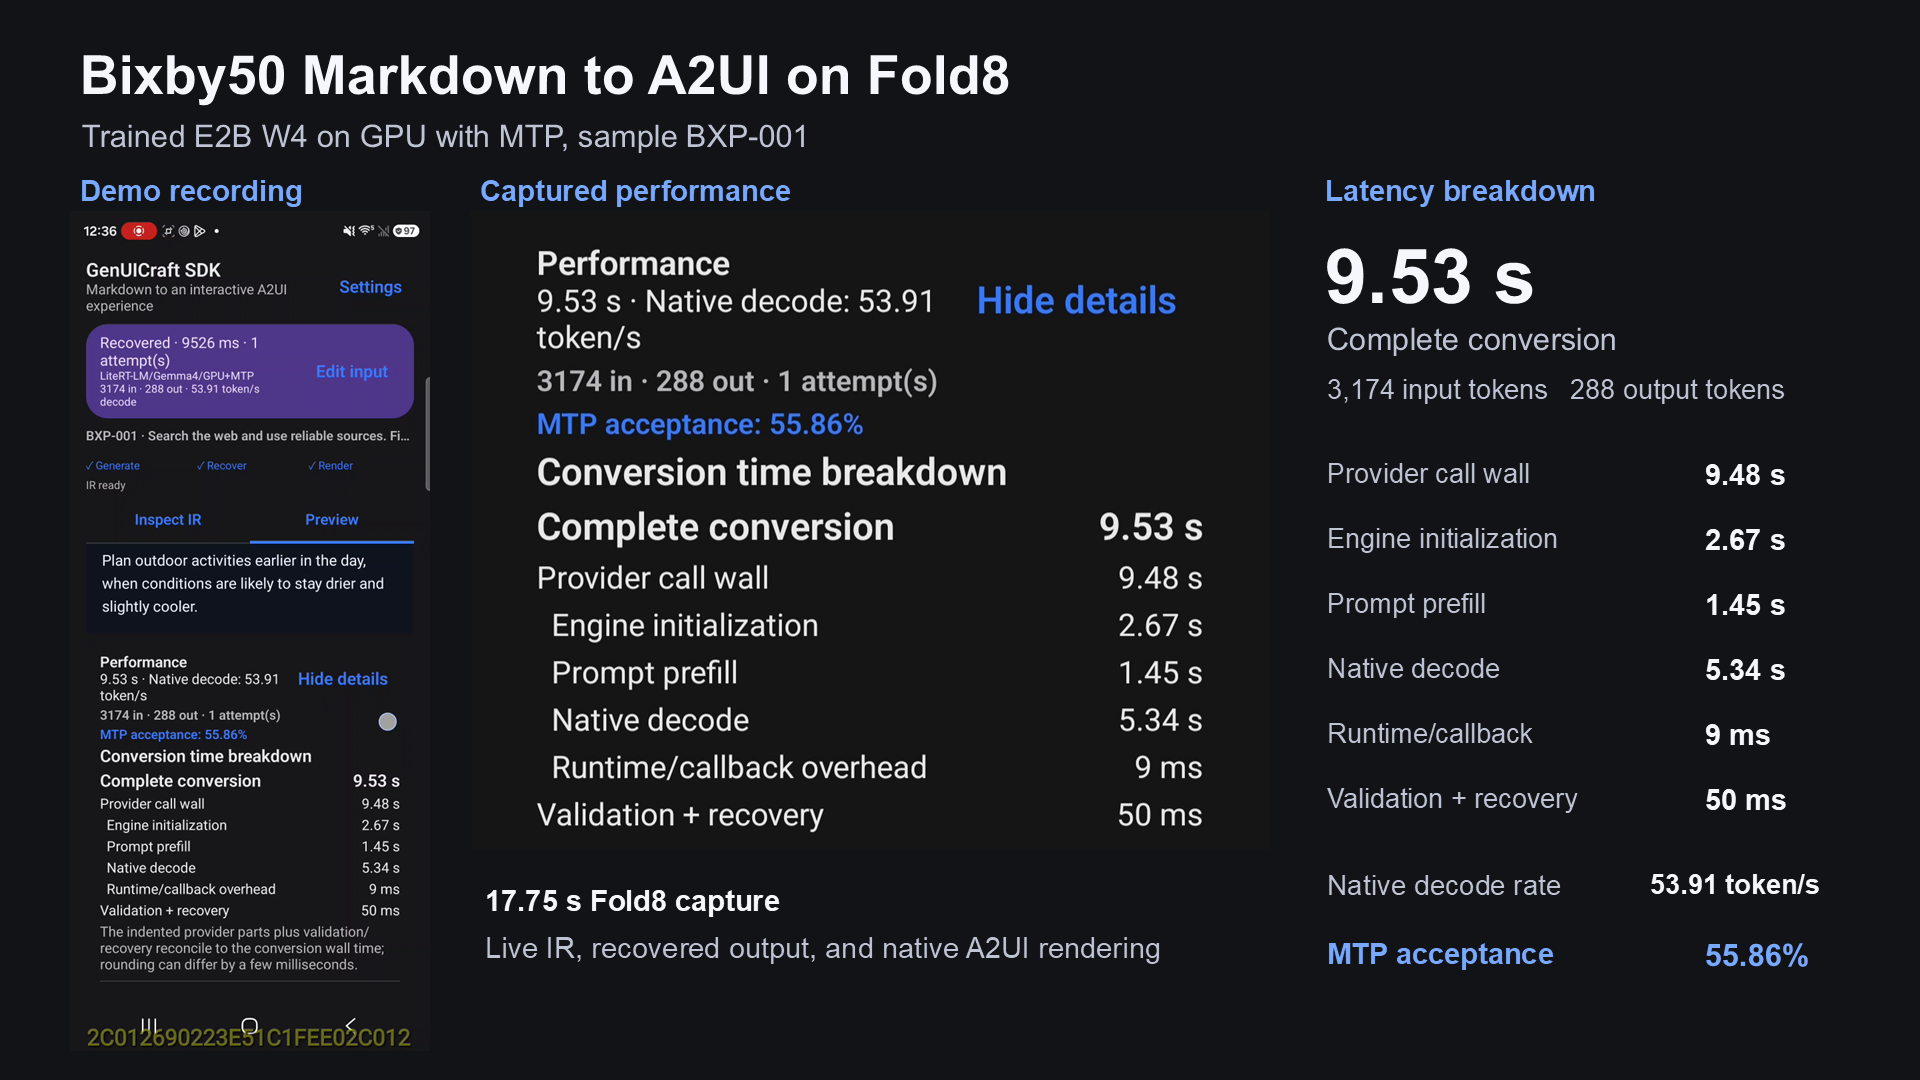
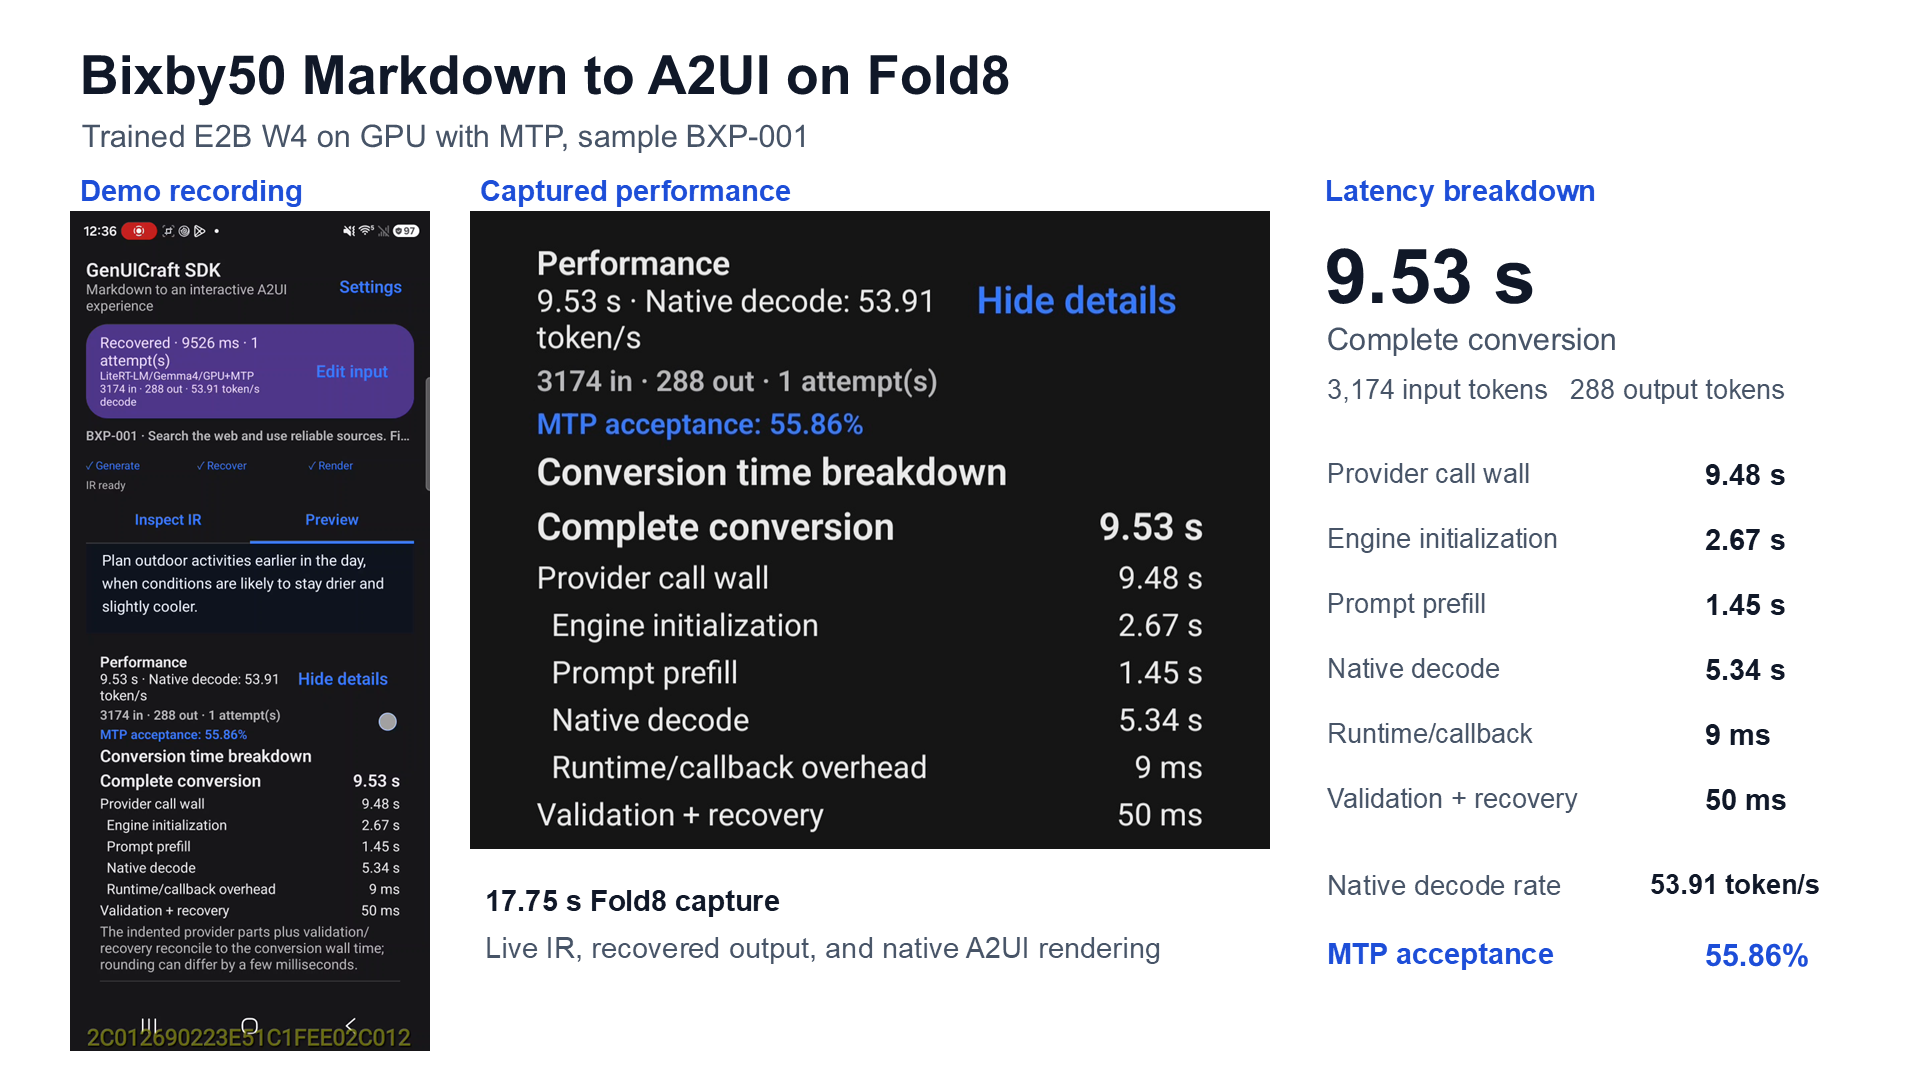
docs(demo): switch Fold8 slide to white background

diff --git a/GenUICraft/demo/20260923_fold8_latency/README.md b/GenUICraft/demo/20260923_fold8_latency/README.md
@@ -3,6 +3,9 @@
 This folder contains the latest Fold8 capture pulled from serial `R3GL203AKSF`
 and a one-slide PowerPoint demo artifact.
 
+The slide uses a white background for clearer demo-room readability while keeping
+the embedded device captures and editable latency text.
+
 - `output/GenUICraft_Fold8_Demo_Latency.pptx` is the final slide. It embeds the
   17.75-second MP4, so the video travels with the presentation.
 - `output/slide_preview.png` is a native PowerPoint render used for visual QA.
